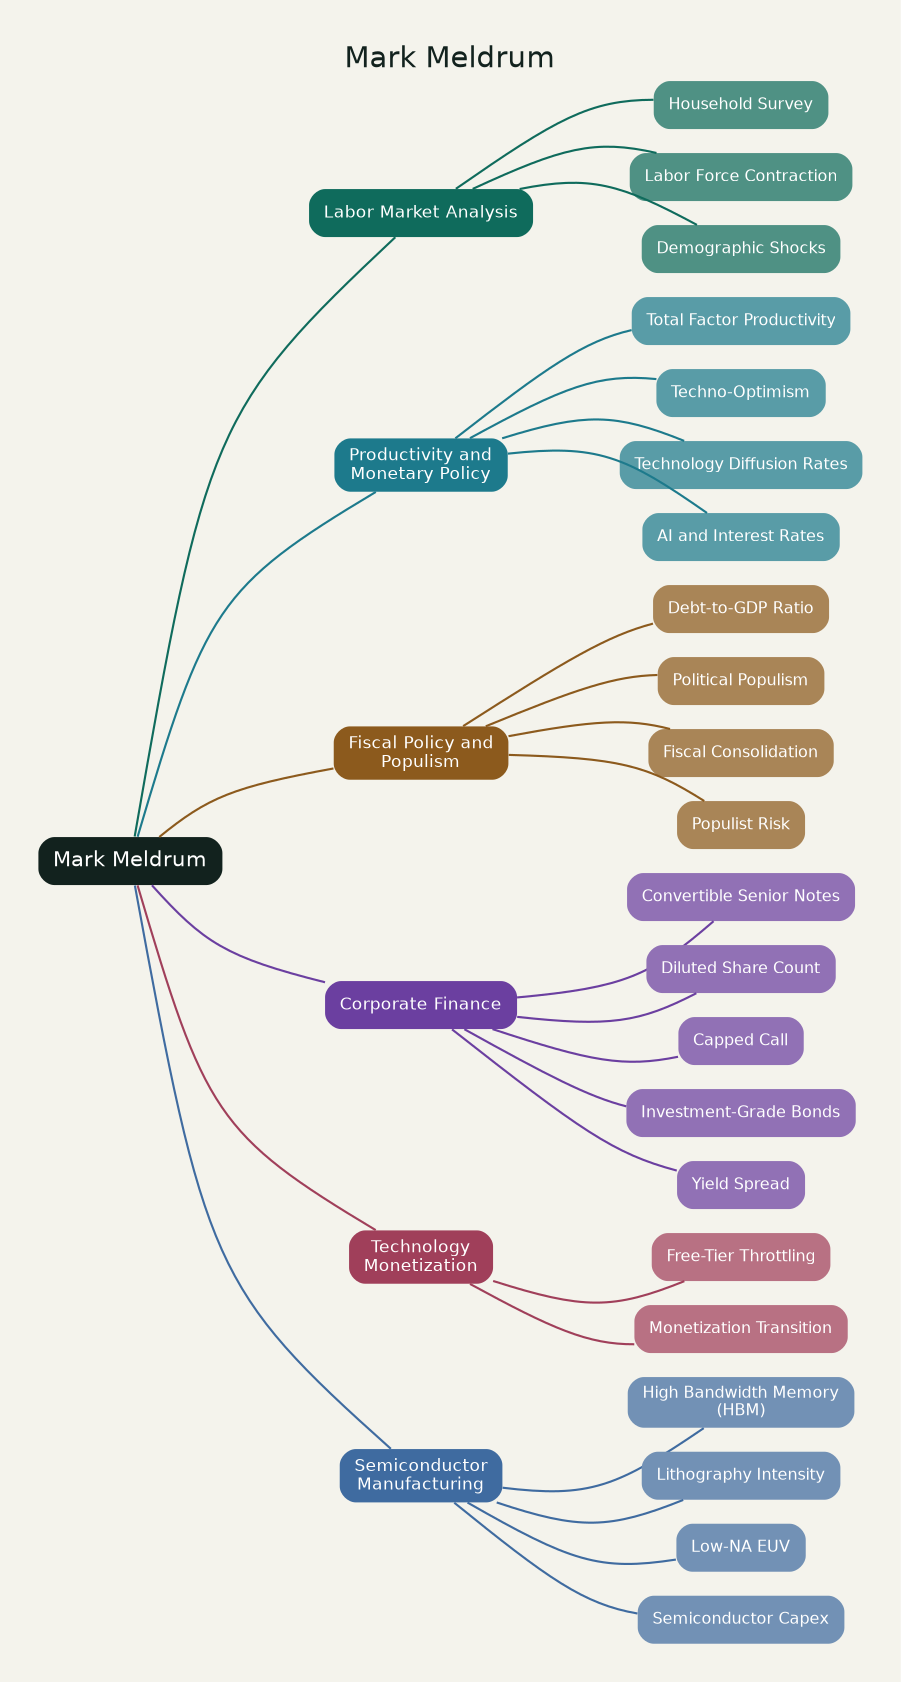
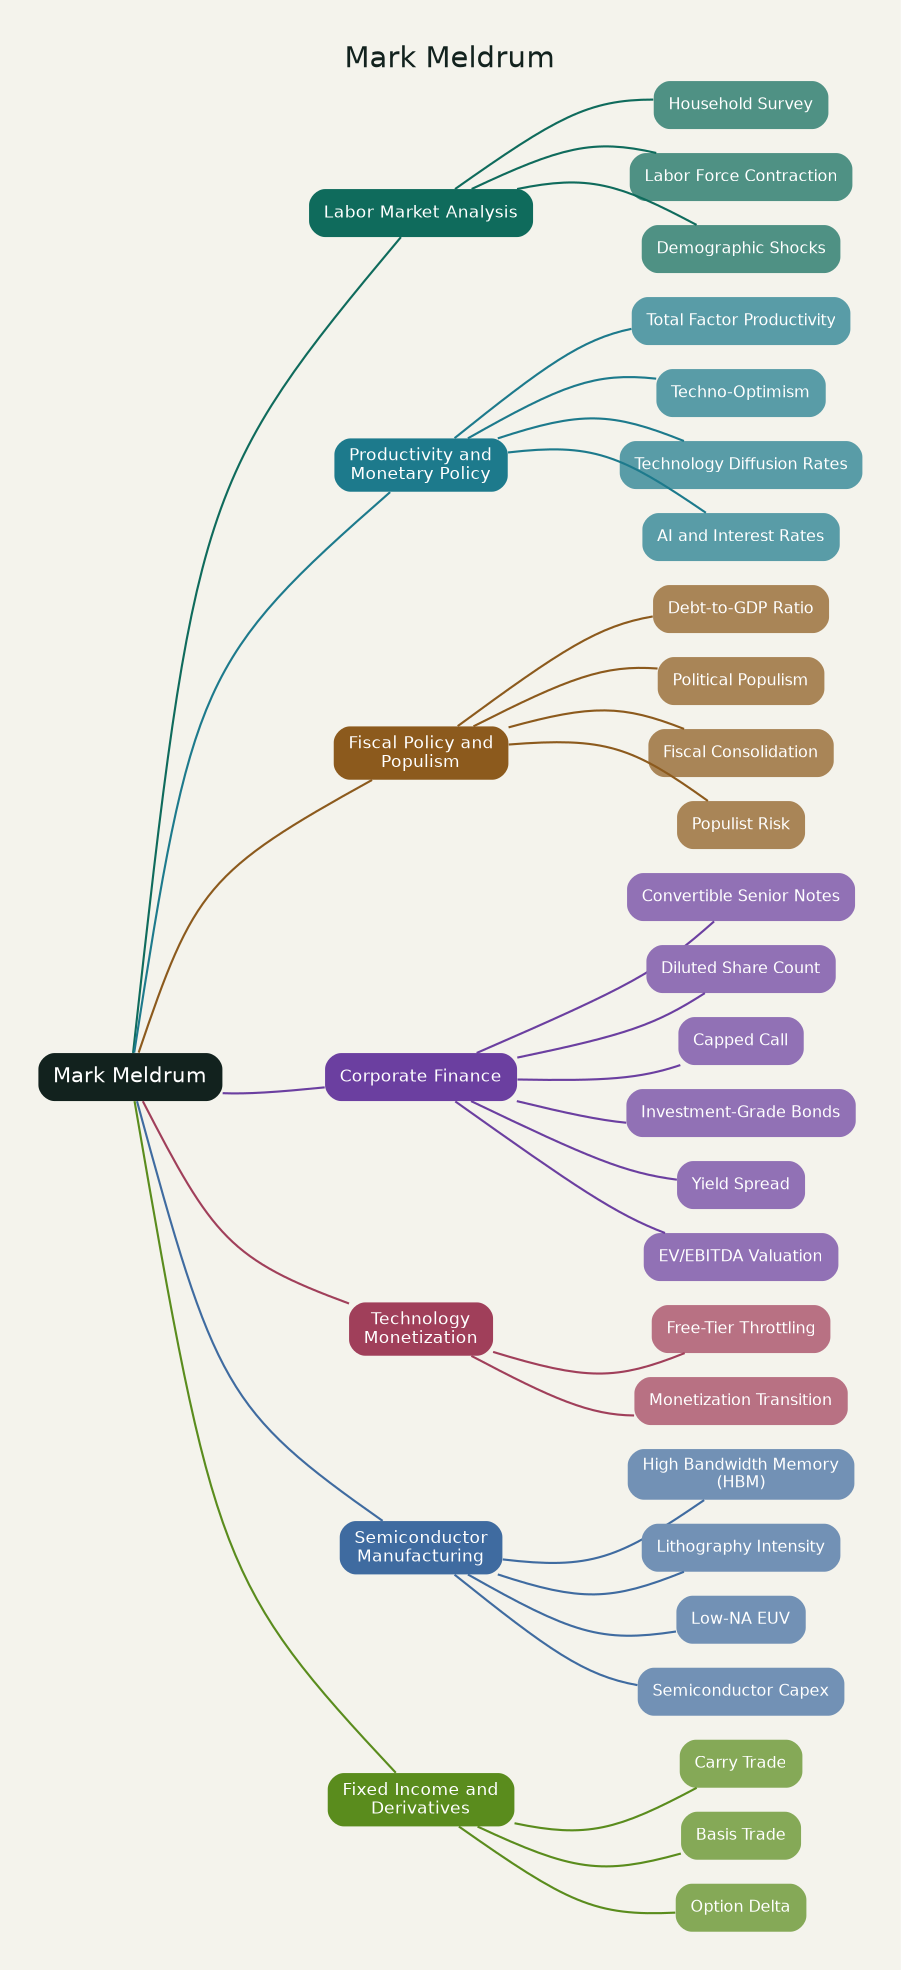
digest: 2026-08-10 00:04

diff --git a/docs/index.html b/docs/index.html
@@ -61,6 +61,15 @@ footer{margin-top:60px;border-top:3px double var(--ink);padding-top:14px;
 <div class="sub">The global political economy wire · summarized, mapped, delivered · with love from Nicole</div></header>
 <nav class="chips"><a class="chip" href="channel-UCVlAELI2OVTx03PvpXoLCWQ.html">BettBeat Media</a><a class="chip" href="channel-UCAHr-sT0AjrD3sBwr1eRUNg.html">Mark Meldrum</a><a class="chip" href="channel-UCXf8jlTSP9kp6g4ROCfgvbQ.html">Simon Universe丨國際關係教室</a></nav><div class="daterule">2026-08-09</div><article class="brief">
 <div class="slug"><a href="channel-UCAHr-sT0AjrD3sBwr1eRUNg.html">Mark Meldrum</a> · 2026-08-09 · <b>watch → 2 min read</b></div>
+<h2><a href="https://www.youtube.com/watch?v=SSNqPx5w880" target="_blank" rel="noopener">Globex Live - Aug 9, 2026</a></h2>
+<p class="tldr"><strong>The Gist</strong> — Mark Meldrum analyzes current market indicators, explains the mechanics of option delta and carry trades, and critiques Coherent&#x27;s valuation ahead of key CPI and PPI data releases.</p>
+<details><summary>Read the briefing</summary><div class="body">
+<h3>Summary</h3><p>In this market update, financial educator Mark Meldrum reviews global market indicators across forex, energy, metals, and futures, noting that geopolitical tensions in the Middle East remain a key background risk. He addresses several viewer questions, starting with a technical explanation of why he targets a 16-delta option when selling puts, explaining that it represents one standard deviation from the mean in a normal distribution, leaving 16% probability in the lower tail.</p><p>Meldrum performs a real-time valuation critique of Coherent (COHR), correcting a viewer&#x27;s price-to-sales estimate of 3.5 to over 9. By calculating the company&#x27;s enterprise value (approximately $76 billion) against its EBITDA, he demonstrates that the stock trades at an extremely high multiple of around 190x, driven by thin operating margins of roughly 10%, making its current valuation highly questionable.</p><p>Finally, he demystifies the carry trade, defining it simply as borrowing at a low interest rate to invest at a higher rate while isolating a single risk factor. He contrasts currency carry trades with intra-curve basis trades used by hedge funds, emphasizing that successful execution requires isolating either currency or duration risk rather than taking on a bundle of unhedged risks.</p>
+<h3>Highlights</h3><ul><li>Explains that a 16-delta option corresponds to one standard deviation, representing the 16% probability in the tail of a normal distribution.</li><li>Critiques Coherent&#x27;s valuation, calculating an EV/EBITDA multiple of roughly 190x based on a $76 billion enterprise value and thin 10% operating margins.</li><li>Identifies upcoming CPI and PPI releases as the week&#x27;s primary risk events for interest rate duration.</li><li>Defines a true carry trade as borrowing at a low rate and investing at a higher rate while strictly isolating a single risk factor, such as currency or duration.</li><li>Discusses the basis trade as a common intra-curve carry trade where hedge funds buy 10-year Treasuries and finance them through short-term repo markets.</li></ul>
+<h3>Key concepts</h3><ul><li><strong>16 Delta</strong> — An option delta representing a 16% probability of expiring in-the-money, roughly corresponding to one standard deviation in a normal distribution.</li><li><strong>Carry Trade</strong> — An investment strategy of borrowing in a low-interest-rate currency or instrument to fund a higher-yielding asset, capturing the spread.</li><li><strong>Basis Trade</strong> — An intra-curve carry trade where investors buy long-term bonds and finance them in short-term repo markets to capture yield spreads.</li></ul>
+<p class="why">Why it matters — Understanding the precise mechanics of valuation multiples, option Greeks, and carry trades is essential for navigating macro volatility driven by central bank policies and geopolitical risks.</p>
+</div></details></article><article class="brief">
+<div class="slug"><a href="channel-UCAHr-sT0AjrD3sBwr1eRUNg.html">Mark Meldrum</a> · 2026-08-09 · <b>watch → 2 min read</b></div>
 <h2><a href="https://www.youtube.com/watch?v=-E3eEi7EeoE" target="_blank" rel="noopener">Bull run and low jobs, earnings from PLTR, AMD, ANET, and APP</a></h2>
 <p class="tldr"><strong>The Gist</strong> — The weekly market outlook highlights strong manufacturing data, anomalous US vehicle sales, robust Canadian employment, and mixed corporate earnings from tech giants like Palantir, AMD, Arista, and AppLovin.</p>
 <details><summary>Read the briefing</summary><div class="body">
@@ -410,14 +419,5 @@ footer{margin-top:60px;border-top:3px double var(--ink);padding-top:14px;
 <h3>Highlights</h3><ul><li>The debt-to-GDP ratio will continue to worsen regardless of whether Republicans or Democrats win the next election cycle.</li><li>Populism has become the dominant strategy for winning elections in almost all Western democracies.</li><li>Electoral success is increasingly driven by promising public benefits to voters while targeting minority groups like the wealthy for redistribution.</li><li>The structural incentives of modern democratic systems prevent effective fiscal discipline and long-term debt management.</li></ul>
 <h3>Key concepts</h3><ul><li><strong>Debt-to-GDP Ratio</strong> — A metric comparing a country&#x27;s public debt to its economic output, indicating its ability to pay back its debts.</li><li><strong>Political Populism</strong> — A political approach that strives to appeal to ordinary people by promising benefits, often resulting in unsustainable fiscal policies.</li><li><strong>Fiscal Consolidation</strong> — Policies aimed at reducing government deficits and debt accumulation, which are politically difficult to implement in populist systems.</li></ul>
 <p class="why">Why it matters — This systemic fiscal deterioration threatens the long-term stability of the global financial system as key reserve-currency issuers face politically irreversible debt expansion.</p>
-</div></details></article><article class="brief">
-<div class="slug"><a href="channel-UCXf8jlTSP9kp6g4ROCfgvbQ.html">Simon Universe丨國際關係教室</a> · 2026-07-15 · <b>watch → 2 min read</b></div>
-<h2><a href="https://www.youtube.com/watch?v=WqqgBcXxnjY" target="_blank" rel="noopener">每日國際新聞｜AI帶旺亞洲工廠、德國拉美國軍工、以色列拒撤黎南｜Simon Universe 國際關係教室</a></h2>
-<p class="tldr"><strong>The Gist</strong> — 本影片概述了全球地緣政治與經濟動態，包括烏克蘭防空挑戰、歐盟擴員、中國出口增長及美聯儲政策分歧。</p>
-<details><summary>Read the briefing</summary><div class="body">
-<h3>Summary</h3><p>本視頻深入分析了當前全球地緣政治與宏觀經濟的多重維度。首先，地緣安全局勢依然緊張，烏克蘭雖成功攔截俄軍彈道導彈，但面臨防空導彈庫存消耗與成本不對稱的嚴峻挑戰；同時，歐盟推動二十年來最大規模的擴員談判，將成員國資格視為應對俄羅斯威脅的安全政策。立陶宛新政府亦承諾將國防開支維持在GDP的5%以上，凸顯北約東翼的防務壓力。</p><p>在經濟與市場方面，人工智能需求強勁帶動中國六月出口按年急升27%，但同時暴露出國內房地產與消費疲弱的「外熱內冷」困局。企業科技預算正向AI硬件傾斜，導致IBM等傳統軟件與顧問巨頭面臨盈利預警。此外，美國通脹雖降至3.5%，但能源價格反彈令前景不明，美聯儲官員對加息或減息意見分歧，而英國十年期國債收益率一度突破5%，反映出市場對通脹與財政赤字的雙重擔憂。</p>
-<h3>Highlights</h3><ul><li>烏克蘭近兩周首次一次性擊落五枚俄軍彈道導彈，但面臨高昂攔截成本與庫存快速消耗的壓力。</li><li>歐盟同日推進阿爾巴尼亞、黑山、摩爾多瓦和烏克蘭四國入盟談判，為二十多年來最大規模擴員。</li><li>人工智能相關設備與電動車需求強勁，帶動中國六月出口按年急升百分之二十七。</li><li>美國六月通脹降至3.5%，但美聯儲官員對未來利率走向意見分歧，加息與減息支持者各佔一半。</li><li>英國十年期國債收益率受油價上升及財政擔憂推動，一度突破百分之五，推高政府融資成本。</li></ul>
-<h3>Key concepts</h3><ul><li><strong>防空不對稱</strong> — 敵方使用廉價無人機與導彈消耗我方昂貴防空攔截彈的戰術困境。</li><li><strong>戰略擴員</strong> — 歐盟將成員國資格轉化為地緣安全工具，以遏制俄中影響力擴張。</li><li><strong>科技預算擠壓</strong> — 企業優先投資AI硬件，導致傳統軟件與IT諮詢預算被推遲或削減。</li></ul>
-<p class="why">Why it matters — 全球防務開支激增與AI技術轉型正重塑地緣政治版圖，同時給各國財政赤字與貨幣政策帶來持續的通脹壓力。</p>
 </div></details></article><footer>Generated automatically · GitHub Actions · Gemini · Telegram · Drive</footer>
 </div></body></html>

diff --git a/docs/channel-UCAHr-sT0AjrD3sBwr1eRUNg.html b/docs/channel-UCAHr-sT0AjrD3sBwr1eRUNg.html
@@ -61,6 +61,15 @@ footer{margin-top:60px;border-top:3px double var(--ink);padding-top:14px;
 <div class="sub">The global political economy wire · summarized, mapped, delivered · with love from Nicole</div></header>
 <nav class="chips"><a class="chip" href="index.html">← All briefings</a><a class="chip" href="packs/UCAHr-sT0AjrD3sBwr1eRUNg.md" download="NotebookLM Pack — Mark Meldrum.md">⬇ Download NotebookLM Pack</a><a class="chip" href="notebooklm.html">NotebookLM guide</a></nav><div class="daterule">Mark Meldrum · knowledge map</div><img class="mindmap" src="mindmaps/UCAHr-sT0AjrD3sBwr1eRUNg.png" alt="Mind map of Mark Meldrum"><article class="brief">
 <div class="slug">Mark Meldrum · 2026-08-09 · <b>watch → 2 min read</b></div>
+<h2><a href="https://www.youtube.com/watch?v=SSNqPx5w880" target="_blank" rel="noopener">Globex Live - Aug 9, 2026</a></h2>
+<p class="tldr"><strong>The Gist</strong> — Mark Meldrum analyzes current market indicators, explains the mechanics of option delta and carry trades, and critiques Coherent&#x27;s valuation ahead of key CPI and PPI data releases.</p>
+<details><summary>Read the briefing</summary><div class="body">
+<h3>Summary</h3><p>In this market update, financial educator Mark Meldrum reviews global market indicators across forex, energy, metals, and futures, noting that geopolitical tensions in the Middle East remain a key background risk. He addresses several viewer questions, starting with a technical explanation of why he targets a 16-delta option when selling puts, explaining that it represents one standard deviation from the mean in a normal distribution, leaving 16% probability in the lower tail.</p><p>Meldrum performs a real-time valuation critique of Coherent (COHR), correcting a viewer&#x27;s price-to-sales estimate of 3.5 to over 9. By calculating the company&#x27;s enterprise value (approximately $76 billion) against its EBITDA, he demonstrates that the stock trades at an extremely high multiple of around 190x, driven by thin operating margins of roughly 10%, making its current valuation highly questionable.</p><p>Finally, he demystifies the carry trade, defining it simply as borrowing at a low interest rate to invest at a higher rate while isolating a single risk factor. He contrasts currency carry trades with intra-curve basis trades used by hedge funds, emphasizing that successful execution requires isolating either currency or duration risk rather than taking on a bundle of unhedged risks.</p>
+<h3>Highlights</h3><ul><li>Explains that a 16-delta option corresponds to one standard deviation, representing the 16% probability in the tail of a normal distribution.</li><li>Critiques Coherent&#x27;s valuation, calculating an EV/EBITDA multiple of roughly 190x based on a $76 billion enterprise value and thin 10% operating margins.</li><li>Identifies upcoming CPI and PPI releases as the week&#x27;s primary risk events for interest rate duration.</li><li>Defines a true carry trade as borrowing at a low rate and investing at a higher rate while strictly isolating a single risk factor, such as currency or duration.</li><li>Discusses the basis trade as a common intra-curve carry trade where hedge funds buy 10-year Treasuries and finance them through short-term repo markets.</li></ul>
+<h3>Key concepts</h3><ul><li><strong>16 Delta</strong> — An option delta representing a 16% probability of expiring in-the-money, roughly corresponding to one standard deviation in a normal distribution.</li><li><strong>Carry Trade</strong> — An investment strategy of borrowing in a low-interest-rate currency or instrument to fund a higher-yielding asset, capturing the spread.</li><li><strong>Basis Trade</strong> — An intra-curve carry trade where investors buy long-term bonds and finance them in short-term repo markets to capture yield spreads.</li></ul>
+<p class="why">Why it matters — Understanding the precise mechanics of valuation multiples, option Greeks, and carry trades is essential for navigating macro volatility driven by central bank policies and geopolitical risks.</p>
+</div></details></article><article class="brief">
+<div class="slug">Mark Meldrum · 2026-08-09 · <b>watch → 2 min read</b></div>
 <h2><a href="https://www.youtube.com/watch?v=-E3eEi7EeoE" target="_blank" rel="noopener">Bull run and low jobs, earnings from PLTR, AMD, ANET, and APP</a></h2>
 <p class="tldr"><strong>The Gist</strong> — The weekly market outlook highlights strong manufacturing data, anomalous US vehicle sales, robust Canadian employment, and mixed corporate earnings from tech giants like Palantir, AMD, Arista, and AppLovin.</p>
 <details><summary>Read the briefing</summary><div class="body">

diff --git a/docs/packs/UCAHr-sT0AjrD3sBwr1eRUNg.md b/docs/packs/UCAHr-sT0AjrD3sBwr1eRUNg.md
@@ -644,3 +644,40 @@ Understanding these macroeconomic shifts and corporate valuation metrics is crit
 
 
 ---
+
+# Globex Live - Aug 9, 2026
+
+**Channel:** Mark Meldrum  
+**Published:** 2026-08-09  
+**Link:** https://www.youtube.com/watch?v=SSNqPx5w880
+
+> **The Gist** — Mark Meldrum analyzes current market indicators, explains the mechanics of option delta and carry trades, and critiques Coherent's valuation ahead of key CPI and PPI data releases.
+
+## Summary
+
+In this market update, financial educator Mark Meldrum reviews global market indicators across forex, energy, metals, and futures, noting that geopolitical tensions in the Middle East remain a key background risk. He addresses several viewer questions, starting with a technical explanation of why he targets a 16-delta option when selling puts, explaining that it represents one standard deviation from the mean in a normal distribution, leaving 16% probability in the lower tail.
+
+Meldrum performs a real-time valuation critique of Coherent (COHR), correcting a viewer's price-to-sales estimate of 3.5 to over 9. By calculating the company's enterprise value (approximately $76 billion) against its EBITDA, he demonstrates that the stock trades at an extremely high multiple of around 190x, driven by thin operating margins of roughly 10%, making its current valuation highly questionable.
+
+Finally, he demystifies the carry trade, defining it simply as borrowing at a low interest rate to invest at a higher rate while isolating a single risk factor. He contrasts currency carry trades with intra-curve basis trades used by hedge funds, emphasizing that successful execution requires isolating either currency or duration risk rather than taking on a bundle of unhedged risks.
+
+## Highlights
+
+- Explains that a 16-delta option corresponds to one standard deviation, representing the 16% probability in the tail of a normal distribution.
+- Critiques Coherent's valuation, calculating an EV/EBITDA multiple of roughly 190x based on a $76 billion enterprise value and thin 10% operating margins.
+- Identifies upcoming CPI and PPI releases as the week's primary risk events for interest rate duration.
+- Defines a true carry trade as borrowing at a low rate and investing at a higher rate while strictly isolating a single risk factor, such as currency or duration.
+- Discusses the basis trade as a common intra-curve carry trade where hedge funds buy 10-year Treasuries and finance them through short-term repo markets.
+
+## Key Concepts
+
+- **16 Delta** — An option delta representing a 16% probability of expiring in-the-money, roughly corresponding to one standard deviation in a normal distribution.
+- **Carry Trade** — An investment strategy of borrowing in a low-interest-rate currency or instrument to fund a higher-yielding asset, capturing the spread.
+- **Basis Trade** — An intra-curve carry trade where investors buy long-term bonds and finance them in short-term repo markets to capture yield spreads.
+
+## Why It Matters
+
+Understanding the precise mechanics of valuation multiples, option Greeks, and carry trades is essential for navigating macro volatility driven by central bank policies and geopolitical risks.
+
+
+---
